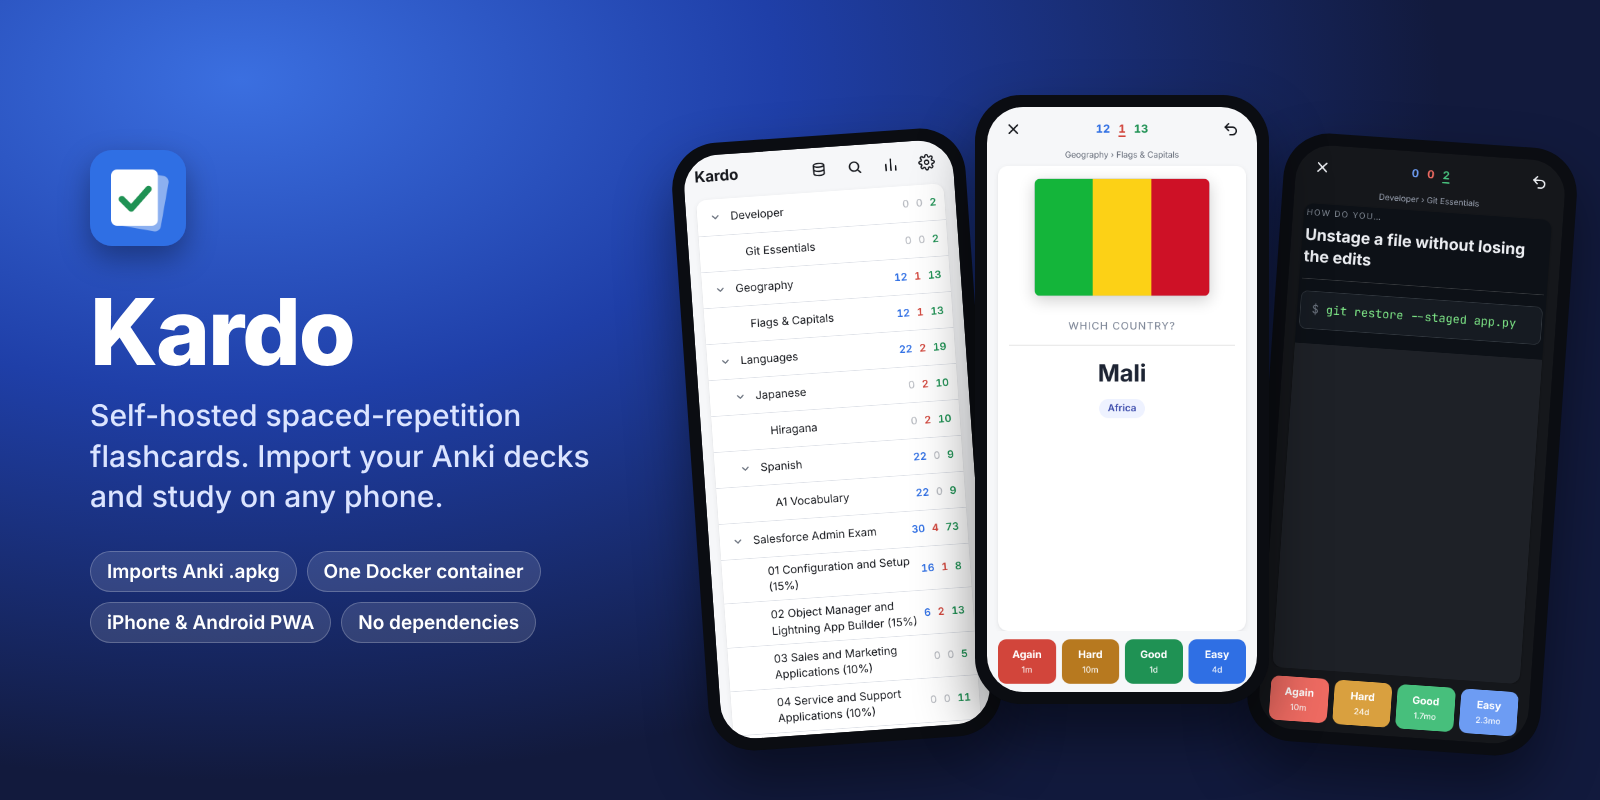
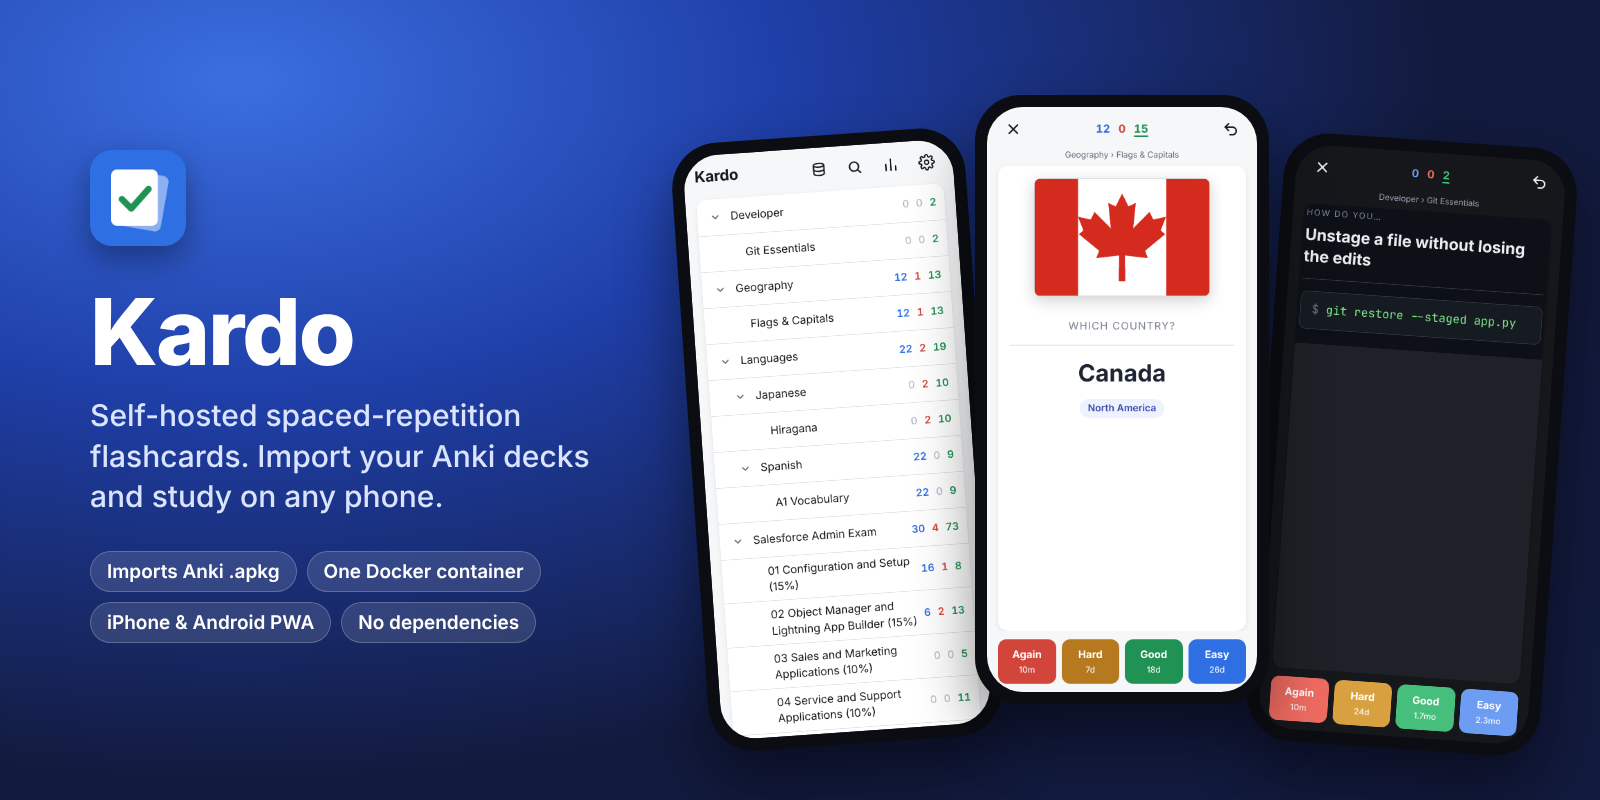
Use the Canadian flag in the sample deck and screenshots

Changed region(s): [[0.625, 0.2188, 0.7812, 0.375], [0.6875, 0.4375, 0.7188, 0.5312]]

diff --git a/scripts/make_samples.py b/scripts/make_samples.py
@@ -45,6 +45,7 @@ H = "h"   # horizontal stripes, top to bottom
 V = "v"   # vertical stripes, left to right
 N = "n"   # Nordic cross: field, cross, optional inner cross
 C = "c"   # disc on a field
+L = "l"   # Canada: red bars, white square, red maple leaf
 COUNTRIES = [
     ("France", "Paris", "Europe", (V, "#002654", "#ffffff", "#ce1126")),
     ("Italy", "Rome", "Europe", (V, "#008c45", "#f4f5f0", "#cd212a")),
@@ -70,14 +71,25 @@ COUNTRIES = [
     ("Indonesia", "Jakarta", "Asia", (H, "#ce1126", "#ffffff")),
     ("Yemen", "Sanaa", "Asia", (H, "#ce1126", "#ffffff", "#000000")),
     ("Nigeria", "Abuja", "Africa", (V, "#008751", "#ffffff", "#008751")),
-    ("Mali", "Bamako", "Africa", (V, "#14b53a", "#fcd116", "#ce1126")),
     ("Guinea", "Conakry", "Africa", (V, "#ce1126", "#fcd116", "#009460")),
     ("Chad", "N'Djamena", "Africa", (V, "#002664", "#fecb00", "#c60c30")),
     ("Sierra Leone", "Freetown", "Africa", (H, "#1eb53a", "#ffffff", "#0072c6")),
     ("Gabon", "Libreville", "Africa", (H, "#009e60", "#fcd116", "#3a75c4")),
+    ("Canada", "Ottawa", "North America", (L, "#d52b1e", "#ffffff")),
     ("Peru", "Lima", "South America", (V, "#d91023", "#ffffff", "#d91023")),
     ("Colombia", "Bogotá", "South America", (H, "#fcd116", "#fcd116", "#003893", "#ce1126")),
 ]
+
+
+# right half of a simplified maple leaf, (x, y) with y pointing up and the leaf about 1 unit tall
+LEAF = [(0, .50), (.07, .36), (.15, .40), (.12, .12), (.30, .30), (.34, .22), (.48, .25), (.42, .10),
+        (.47, .06), (.25, -.12), (.28, -.20), (.03, -.17), (.035, -.45), (0, -.45)]
+
+
+def maple_leaf(cx, cy, size):
+    right = [(cx + x * size, cy - y * size) for x, y in LEAF]
+    left = [(cx - x * size, cy - y * size) for x, y in reversed(LEAF)]
+    return right + left
 
 
 def draw_flag(design, path, w=600, h=400):
@@ -98,6 +110,9 @@ def draw_flag(design, path, w=600, h=400):
             inner = bar // 2
             d.rectangle([x + (bar - inner) // 2, 0, x + (bar + inner) // 2, h], fill=cols[2])
             d.rectangle([0, (h - inner) // 2, w, (h + inner) // 2], fill=cols[2])
+    elif kind == L:
+        d.rectangle([w // 4, 0, w * 3 // 4, h], fill=cols[1])
+        d.polygon(maple_leaf(w / 2, h * 0.52, h * 0.78), fill=cols[0])
     elif kind == C:
         r = h * 3 // 10
         cx = w // 2 - (w // 20 if cols[0] != "#ffffff" else 0)

diff --git a/docs/api.md b/docs/api.md
@@ -22,11 +22,11 @@ A card object looks like:
 ```json
 {
   "id": 412,
-  "front": "<div class=\"flag\"><img src=\"/media/kardo_flag_mali.png\"></div>…",
-  "back": "…<hr id=\"answer\"><div class=\"answer\">Mali</div>…",
+  "front": "<div class=\"flag\"><img src=\"/media/kardo_flag_canada.png\"></div>…",
+  "back": "…<hr id=\"answer\"><div class=\"answer\">Canada</div>…",
   "css": ".card { … }",
   "deck": "Geography::Flags & Capitals",
-  "tags": ["africa", "geography"],
+  "tags": ["geography", "north_america"],
   "state": "review",
   "intervals": {"1": "10m", "2": "6d", "3": "13d", "4": "21d"}
 }
